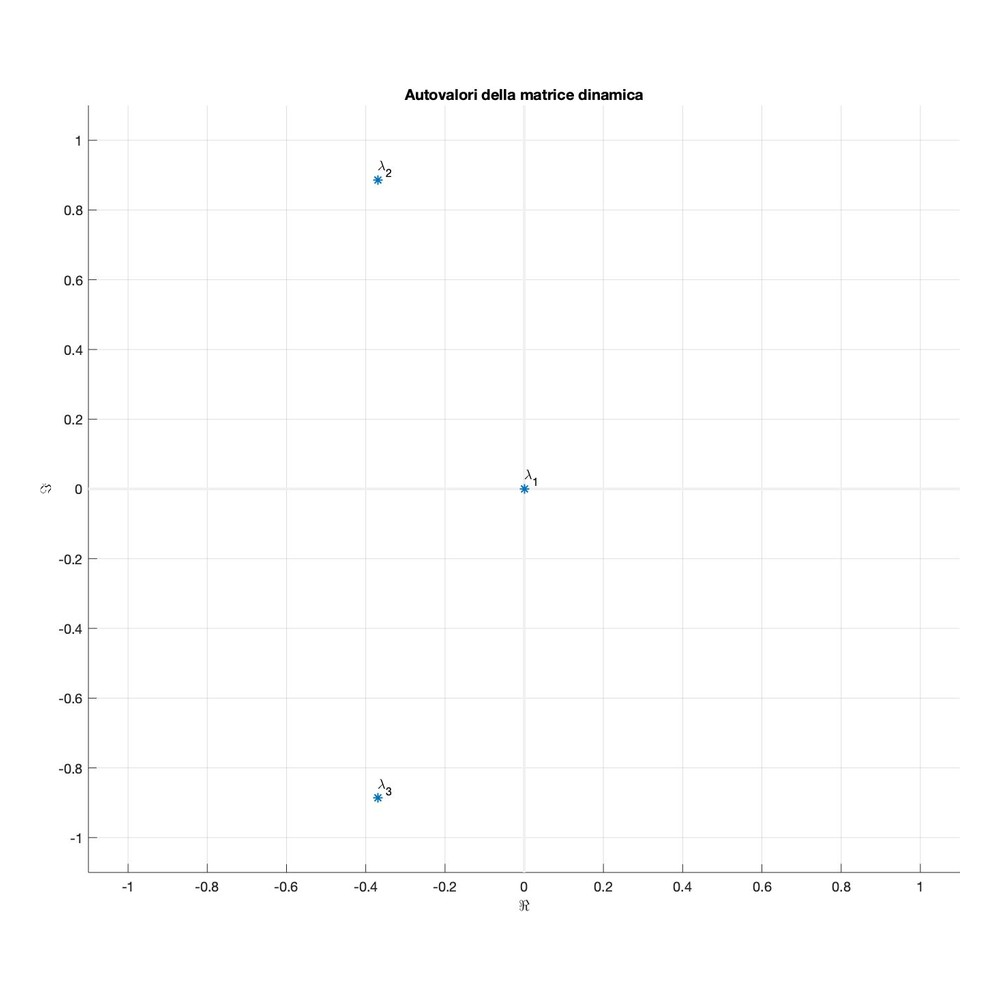
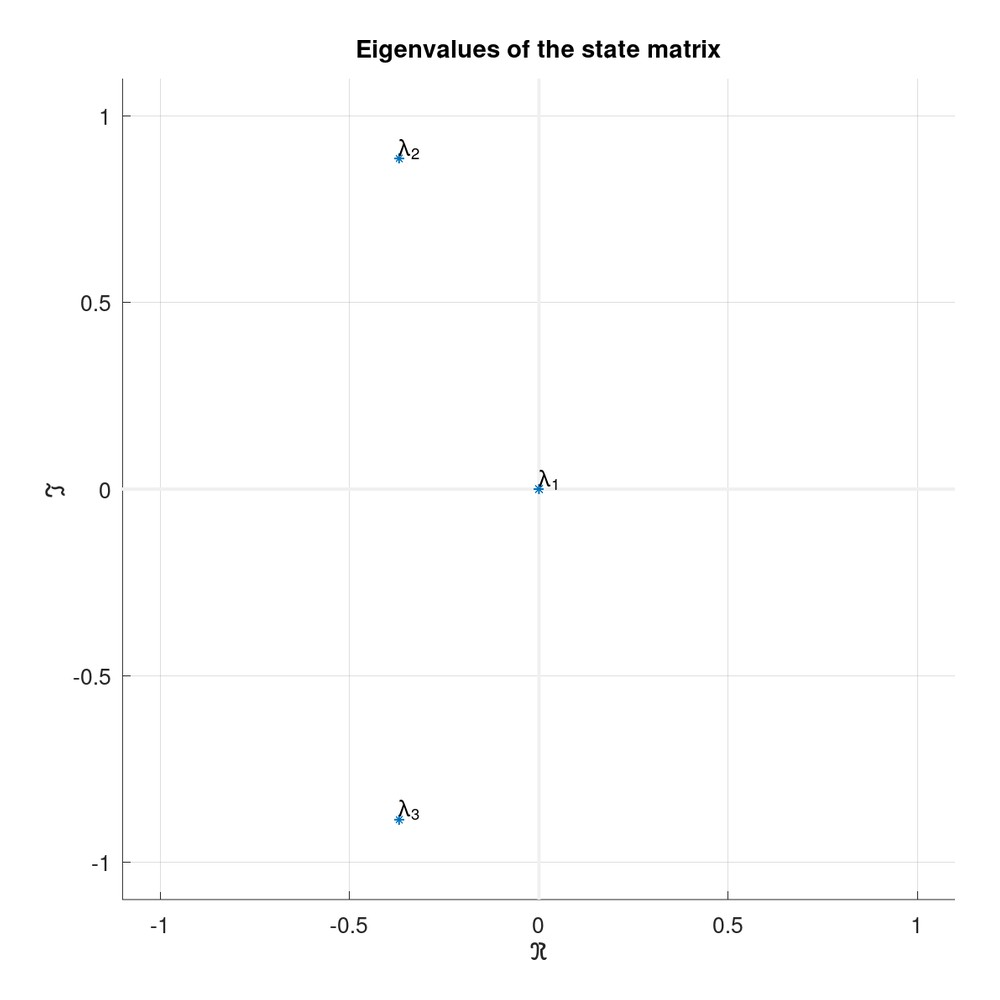
Regenerate figures with English labels
Re-render static plots from src/ with GNU Octave (gains identical to the
original MATLAB run), equalise text size, and square them like the GIFs.

diff --git a/README.md b/README.md
@@ -46,7 +46,7 @@ The zero eigenvalue (θ integrates q) makes the plant simply, not asymptotically
 
 ## Tasks and results
 
-Full console output, including all gains: [`docs/console_output.txt`](docs/console_output.txt).
+Full console output, including all gains: [`docs/console_output.txt`](docs/console_output.txt). Static plots were re-rendered with GNU Octave from the same code, so the labels are in English; the gains match the original MATLAB run.
 
 ### 1. Eigenvalues, time constants, reachability and observability
 
